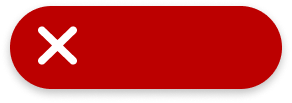
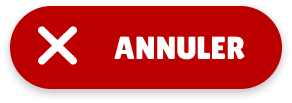
Modal de confirmation sur le lobby et la page de jeu.

Changed region(s): [[0.3699, 0.3495, 0.863, 0.5825]]

diff --git a/Vues/Lobby/lobbyLocal.py b/Vues/Lobby/lobbyLocal.py
@@ -40,6 +40,7 @@ class lobbyLocal(Frame):
             relief = "ridge"
         )
 
+        self.modal_active = False
         self.canvas.place(x = 0, y = 0)
         self.canvas.bind("<Button-1>",self.clique)
         self.Arriere_plan = self.canvas.create_image(720.0,512.0,image= config.Config.image[14])
@@ -51,7 +52,8 @@ class lobbyLocal(Frame):
 
 
         self.Bouton_Quitter = self.canvas.create_image(717.0,577.0,image= config.Config.image[19])
-        self.canvas.tag_bind(self.Bouton_Quitter, "<Button-1>", self.QuitterBouton)
+        # self.canvas.tag_bind(self.Bouton_Quitter, "<Button-1>", self.QuitterBouton)
+        self.canvas.tag_bind(self.Bouton_Quitter, "<Button-1>",lambda *_: self.modal_quitter())
         self.canvas.tag_bind(self.Bouton_Quitter, "<Enter>",lambda *_: self.hoverBouton("entre","quitter",self.Bouton_Quitter))
         self.canvas.tag_bind(self.Bouton_Quitter, "<Leave>",lambda *_: self.hoverBouton("sort","quitter",self.Bouton_Quitter))
 
@@ -169,19 +171,20 @@ class lobbyLocal(Frame):
         Args:
             event (x,y): Les coordonnées en X et Y du clic du joueur
         """
-        actuelwidget = event.widget.find_withtag('current')[0]
-        if self.bouton_jaune.getActiveClavier() == True:
-            if (actuelwidget != 5) and (actuelwidget != 4):
-                self.bouton_jaune.setActiveClavier(False)
-        if self.bouton_vert.getActiveClavier() == True:
-            if (actuelwidget != 15) and (actuelwidget != 14):
-                self.bouton_vert.setActiveClavier(False)
-        if self.bouton_rouge.getActiveClavier() == True:
-            if (actuelwidget != 25) and (actuelwidget != 24):
-                self.bouton_rouge.setActiveClavier(False)
-        if self.bouton_bleu.getActiveClavier() == True:
-            if (actuelwidget != 35) and (actuelwidget != 34):
-                self.bouton_bleu.setActiveClavier(False)
+        if self.modal_active == False:
+            actuelwidget = event.widget.find_withtag('current')[0]
+            if self.bouton_jaune.getActiveClavier() == True:
+                if (actuelwidget != 5) and (actuelwidget != 4):
+                    self.bouton_jaune.setActiveClavier(False)
+            if self.bouton_vert.getActiveClavier() == True:
+                if (actuelwidget != 15) and (actuelwidget != 14):
+                    self.bouton_vert.setActiveClavier(False)
+            if self.bouton_rouge.getActiveClavier() == True:
+                if (actuelwidget != 25) and (actuelwidget != 24):
+                    self.bouton_rouge.setActiveClavier(False)
+            if self.bouton_bleu.getActiveClavier() == True:
+                if (actuelwidget != 35) and (actuelwidget != 34):
+                    self.bouton_bleu.setActiveClavier(False)
         
         
     def touches(self,event):
@@ -199,7 +202,7 @@ class lobbyLocal(Frame):
         config.Config.controller.game = Game(self.joueurs,None,20)
         config.Config.controller.changePage("GameInterface")
     
-    def QuitterBouton(self,event):
+    def QuitterBouton(self):
         """ Méthode permettant re venir à la page d'Accueil (initialisation de la page d'accueil)
         """
         config.Config.controller.changePage("Acceuil")
@@ -234,6 +237,48 @@ class lobbyLocal(Frame):
                 self.canvas.itemconfigure(idButton, image=config.Config.image[4])
                 self.canvas.moveto(idButton,((config.Config.largueur/2)-(config.Config.image[4].width()/2)),821)
                 self.canvas.config(cursor="")
+
+    def modal_quitter(self):
+        self.modal_active = True
+        self.modal = self.canvas.create_image(
+            0, 
+            0, 
+            image=config.Config.image[46],
+            anchor=tk.NW
+        )
+
+        self.modal_no = self.canvas.create_image(
+            config.Config.largueur/2-372,
+            config.Config.hauteur/2+25,
+            image=config.Config.image[56],
+            anchor=tk.NW
+        )
+
+        self.modal_yes =self.canvas.create_image(
+            config.Config.largueur/2+100,
+            config.Config.hauteur/2+25,
+            image=config.Config.image[57],
+            anchor=tk.NW
+        )
+
+        self.canvas.tag_bind(self.modal_yes, "<Button-1>",lambda *_: self.yes())
+        self.canvas.tag_bind(self.modal_no, "<Button-1>",lambda *_: self.no())
+        self.text_modal = self.canvas.create_text(config.Config.largueur/2,(config.Config.hauteur/2)-config.Config.taillePolice[0]/2-25,text="Êtes vous sûr de vouloir quitter ?",fill="#000000",font=("Lilita One", config.Config.taillePolice[0]),anchor=tk.CENTER,justify='center')
+    
+
+
+    def remove_modal(self):
+        self.modal_active = False
+        self.canvas.delete(self.modal,self.modal_no,self.modal_yes,self.text_modal)
+        self.modal_active = False
+
+    def yes(self):
+        self.remove_modal()
+        self.QuitterBouton()
+    
+    def no(self):
+        self.remove_modal()
+
 
 if __name__ == "__main__":
     window = Tk()

diff --git a/Vues/Game/GameInterface.py b/Vues/Game/GameInterface.py
@@ -63,8 +63,8 @@ class GameInterface(tk.Frame):
             image=config.Config.image[6],
             anchor=tk.NW
         )
-        # self.border.tag_bind(self.giveUp, "<Button-1>",lambda *_: self.callBackGiveUp())
-        self.border.tag_bind(self.giveUp, "<Button-1>",lambda *_: self.modal_surrender())
+    
+        self.border.tag_bind(self.giveUp, "<Button-1>",lambda *_: self.ceate_modal("abandon"))
         self.border.tag_bind(self.giveUp, "<Enter>",lambda *_: self.hoverSurrender("enter"))
         self.border.tag_bind(self.giveUp, "<Leave>",lambda *_: self.hoverSurrender("leave"))
 
@@ -74,7 +74,7 @@ class GameInterface(tk.Frame):
             image=config.Config.image[7],
             anchor=tk.NW
         )
-        self.border.tag_bind(self.quitter, "<Button-1>",lambda *_: self.leave())
+        self.border.tag_bind(self.quitter, "<Button-1>",lambda *_: self.ceate_modal("quitter"))
         self.border.tag_bind(self.quitter, "<Enter>",lambda *_: self.hoverLeave("enter"))
         self.border.tag_bind(self.quitter, "<Leave>",lambda *_: self.hoverLeave("leave"))
 
@@ -257,7 +257,7 @@ class GameInterface(tk.Frame):
         
         self.border.tag_raise(self.quitter)
 
-    def modal_surrender(self):
+    def ceate_modal(self,type):
         self.modal = self.border.create_image(
             0, 
             0, 
@@ -278,14 +278,32 @@ class GameInterface(tk.Frame):
             image=config.Config.image[57],
             anchor=tk.NW
         )
+
+        if type == "abandon":
+            self.border.tag_bind(self.modal_yes, "<Button-1>",lambda *_: self.yes("abandon"))
+            self.border.tag_bind(self.modal_no, "<Button-1>", self.no)
+            self.text_modal = self.border.create_text(config.Config.largueur/2,(config.Config.hauteur/2)-config.Config.taillePolice[0]/2-25,text="Êtes vous sûr de vouloir abandonner ?",fill="#000000",font=("Lilita One", config.Config.taillePolice[0]),anchor=tk.CENTER,justify='center')
         
-        self.text_modal = self.border.create_text(config.Config.largueur/2,(config.Config.hauteur/2)-config.Config.taillePolice[0]/2-25,text="Êtes vous sûr de vouoir abandonner ?",fill="#000000",font=("Lilita One", config.Config.taillePolice[0]),anchor=tk.CENTER,justify='center')
-        self.border.tag_bind(self.modal_no, "<Button-1>", self.remove_modal)
-        self.border.tag_bind(self.modal_yes, "<Button-1>", self.remove_modal)
+        if type == "quitter":
+            self.border.tag_bind(self.modal_yes, "<Button-1>",lambda *_: self.yes("quitter"))
+            self.border.tag_bind(self.modal_no, "<Button-1>", self.no)
+            self.text_modal = self.border.create_text(config.Config.largueur/2,(config.Config.hauteur/2)-config.Config.taillePolice[0]/2-25,text="Êtes vous sûr de vouloir quitter ?",fill="#000000",font=("Lilita One", config.Config.taillePolice[0]),anchor=tk.CENTER,justify='center')
+        
 
 
-    def remove_modal(self,event):
+    def remove_modal(self):
         self.border.delete(self.modal,self.modal_no,self.modal_yes,self.text_modal)
+
+    def yes(self,type):
+        self.remove_modal()
+        if type == "abandon":
+            self.callBackGiveUp()
+        if type == "quitter":
+            self.leave()
+    
+    def no(self,event):
+        self.remove_modal()
+        
 
 
 
